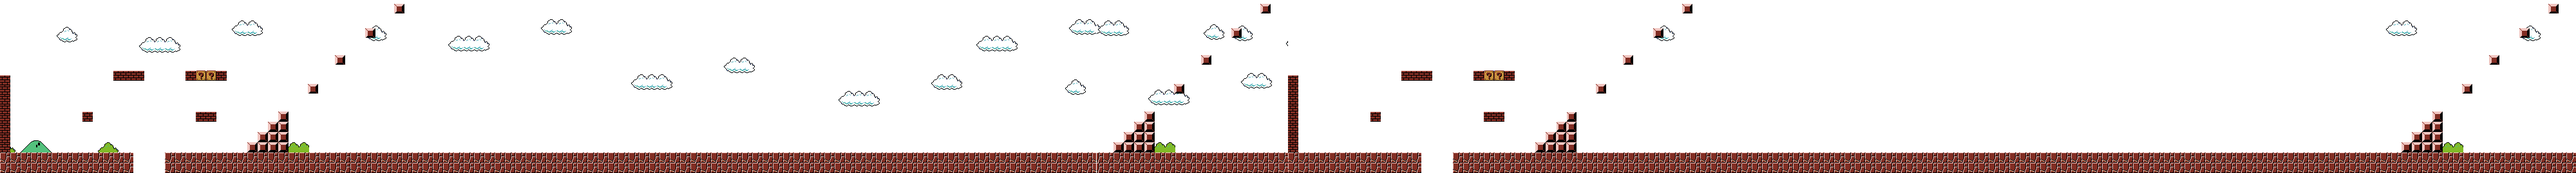
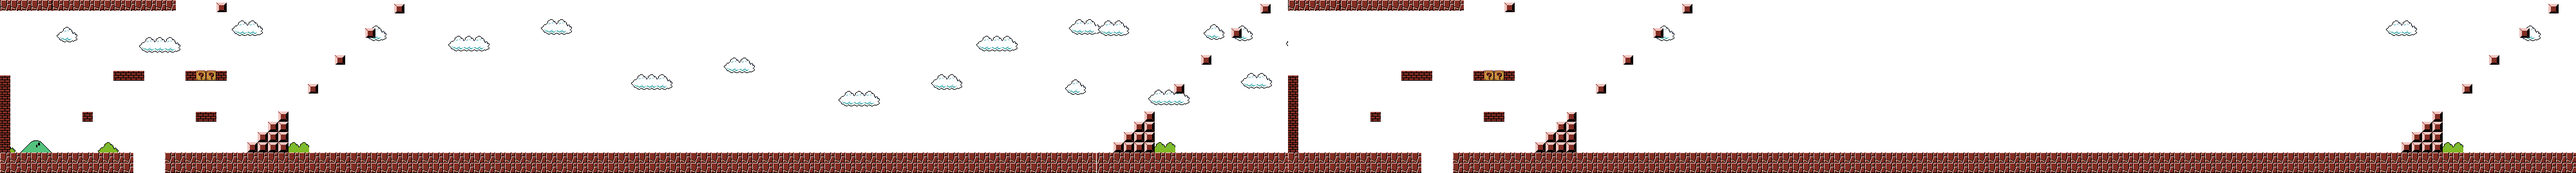
Add viewport scaling for a faux 3d camera feel

Changed region(s): [[0.5, 0.0, 0.5938, 0.0889], [0.0, 0.0, 0.0938, 0.0889]]

diff --git a/engine/src/renderer/renderer.cpp b/engine/src/renderer/renderer.cpp
@@ -8,6 +8,9 @@
 #include <raptr/renderer/parallax.hpp>
 #include <raptr/common/clock.hpp>
 
+constexpr int32_t GAME_WIDTH = 480;
+constexpr int32_t GAME_HEIGHT = 270;
+
 void SDLDeleter::operator()(SDL_Texture* p) const
 {
   SDL_DestroyTexture(p);
@@ -37,6 +40,38 @@ Renderer::~Renderer()
   }
 }
 
+void Renderer::scale(float ratio)
+{
+  int32_t w = GAME_WIDTH * ratio;
+  int32_t h = GAME_HEIGHT * ratio;
+  desired_ratio = ratio;
+  desired_size.w = w;
+  desired_size.h = h;
+  ratio_per_second = (desired_ratio - current_ratio) / 1.0;
+}
+
+void Renderer::scale_to_height(int32_t height)
+{
+  float ratio = float(height) / GAME_HEIGHT;
+  int32_t w = GAME_WIDTH * ratio;
+  int32_t h = GAME_HEIGHT * ratio;
+  desired_ratio = ratio;
+  desired_size.w = w;
+  desired_size.h = h;
+  ratio_per_second = (desired_ratio - current_ratio) / 1.0;
+}
+
+void Renderer::scale_to_width(int32_t width)
+{
+  float ratio = float(width) / GAME_WIDTH;
+  int32_t w = GAME_WIDTH * ratio;
+  int32_t h = GAME_HEIGHT * ratio;
+  desired_ratio = ratio;
+  desired_size.w = w;
+  desired_size.h = h;
+  ratio_per_second = (desired_ratio - current_ratio) / 1.0;
+}
+
 bool Renderer::init(std::shared_ptr<Config>& config_)
 {
   config = config_;
@@ -54,8 +89,13 @@ bool Renderer::init(std::shared_ptr<Config>& config_)
   sdl.renderer = SDL_CreateRenderer(sdl.window, -1, SDL_RENDERER_ACCELERATED);
   camera.pos.x = 0;
   camera.pos.y = 0;
-  SDL_RenderSetLogicalSize(sdl.renderer, GAME_WIDTH, GAME_HEIGHT);
-  SDL_SetRenderDrawColor(sdl.renderer, 255, 255, 255, 255);
+  logical_size.w = GAME_WIDTH;
+  logical_size.h = GAME_HEIGHT;
+  desired_size = logical_size;
+  current_ratio = 1.0;
+  desired_ratio = 1.0;
+  SDL_RenderSetLogicalSize(sdl.renderer, logical_size.w, logical_size.h);
+  SDL_SetRenderDrawColor(sdl.renderer, 0, 0, 0, 255);
   SDL_SetRenderDrawBlendMode(sdl.renderer, SDL_BLENDMODE_BLEND);
   return true;
 }
@@ -71,6 +111,23 @@ void Renderer::run_frame(bool force_render)
     return;
   }
 
+  if (std::fabs(current_ratio - desired_ratio) > 1e-5) {
+    float delta_ratio_ms = ratio_per_second / 1000.0 * ms;
+    current_ratio += delta_ratio_ms;
+    if ((delta_ratio_ms > 0 && current_ratio > desired_ratio) ||
+        (delta_ratio_ms < 0 && current_ratio < desired_ratio))
+    {
+      current_ratio = desired_ratio;
+      logical_size = desired_size;
+    } else {
+      int32_t w = GAME_WIDTH * current_ratio;
+      int32_t h = GAME_HEIGHT * current_ratio;
+      logical_size.w = w;
+      logical_size.h = h;
+    }
+    SDL_RenderSetLogicalSize(sdl.renderer, logical_size.w, logical_size.h);
+  }
+
   SDL_RenderClear(sdl.renderer);
   size_t num_entities = entities_followed.size();
   size_t index = 0;
@@ -78,10 +135,11 @@ void Renderer::run_frame(bool force_render)
   struct ClipCamera {
     SDL_Rect clip, viewport;
     int32_t left_offset;
+    std::vector<std::shared_ptr<Entity>> contains;
   };
 
   // Determine the cameras
-  std::vector<ClipCamera> clippings;
+  std::vector<ClipCamera> hclippings;
 
   // Sort the entities being followed left to right to figure
   // out how we're going to clip them
@@ -94,11 +152,12 @@ void Renderer::run_frame(bool force_render)
               return p1.x < p2.x;
             });
 
-  int32_t min_rect_w;
+  int32_t min_rect_w, min_rect_h;
   if (num_entities == 0) {
-    min_rect_w = GAME_WIDTH;
+    min_rect_w = logical_size.w;
+    min_rect_h = logical_size.h;
   } else {
-    min_rect_w = static_cast<int32_t>((GAME_WIDTH / num_entities));
+    min_rect_w = static_cast<int32_t>((logical_size.w / num_entities));
   }
 
   int32_t min_rect_hw = min_rect_w / 2;
@@ -124,6 +183,7 @@ void Renderer::run_frame(bool force_render)
       y_pos.push_back(static_cast<int32_t>(pos.y + bbox.h));
       top = 0;
       bottom = GAME_HEIGHT;
+      clip_cam.contains.push_back(entity);
     }
 
     int32_t t_right = right;
@@ -134,6 +194,7 @@ void Renderer::run_frame(bool force_render)
       int32_t x = static_cast<int32_t>(pos.x + bbox.w / 2.0);
       t_right += min_rect_hw;
       if (x <= t_right) {
+        clip_cam.contains.push_back(entity);
         y_pos.push_back(static_cast<int32_t>(pos.y + bbox.h));
         right += min_rect_w;
         t_right = right;
@@ -144,9 +205,9 @@ void Renderer::run_frame(bool force_render)
 
     int32_t min_player = *std::max_element(y_pos.begin(), y_pos.end());
     clip_cam.clip.x = left;
-    clip_cam.clip.y = 0;//(y_pos[0] + 32) - GAME_HEIGHT; // GAME_HEIGHT - std::accumulate(y_pos.begin(), y_pos.end(), 0) / y_pos.size();
+    clip_cam.clip.y = GAME_HEIGHT - logical_size.h;//(y_pos[0] + 32) - GAME_HEIGHT; // GAME_HEIGHT - std::accumulate(y_pos.begin(), y_pos.end(), 0) / y_pos.size();
     clip_cam.clip.w = (right - left);
-    clip_cam.clip.h = GAME_HEIGHT;
+    clip_cam.clip.h = logical_size.h;
     clip_cam.left_offset = last_center_offset;
 
     clip_cam.viewport.x = last_left;
@@ -157,17 +218,86 @@ void Renderer::run_frame(bool force_render)
     last_left += clip_cam.clip.w;
     last_center_offset += clip_cam.viewport.w;
 
-    clippings.push_back(clip_cam);
+    hclippings.push_back(clip_cam);
     ++num_clips;
   }
+
+
+
+  std::vector<ClipCamera> clippings = hclippings;
+
+  /*
+  // So, the idea here is to iterate through our current horizontal cuts and find what entities are in it and then
+  // split the horizontal window in a similar way
+  for (auto& hclip_cam : hclippings) {
+    int32_t top, bottom;
+
+    // Now, create vertical clips
+    std::sort(hclip_cam.contains.begin(),
+      hclip_cam.contains.end(),
+      [](const auto& lhs, const auto& rhs)
+    {
+      auto& p1 = lhs->position();
+      auto& p2 = rhs->position();
+      return p1.y > p2.y;
+    });
+
+    int32_t last_top = GAME_HEIGHT;
+    ClipCamera clip_cam = hclip_cam;
+    clip_cam.contains.clear();
+    current_entity_index = 0;
+    min_rect_h = static_cast<int32_t>((GAME_HEIGHT / hclip_cam.contains.size()));
+    int32_t min_rect_hh = min_rect_h / 2;
+
+    while (current_entity_index < hclip_cam.contains.size()) {
+      // Setup the initial camera where we are going to try and merge players together
+      {
+        const auto& entity = hclip_cam.contains[current_entity_index];
+        auto& pos = entity->position();
+        auto bbox = entity->bbox()[0];
+        int32_t y = pos.y + bbox.h / 2.0;
+        top = y - min_rect_hh;
+        bottom = y + min_rect_hh;
+        clip_cam.contains.push_back(entity);
+      }
+
+      int32_t t_top = top;
+      while (++current_entity_index < hclip_cam.contains.size()) {
+        const auto& entity = hclip_cam.contains[current_entity_index];
+        auto& pos = entity->position();
+        auto bbox = entity->bbox()[0];
+        int32_t y = static_cast<int32_t>(pos.y + bbox.h / 2.0);
+        t_top -= min_rect_hh;
+        if (y >= t_top) {
+          clip_cam.contains.push_back(entity);
+          top -= min_rect_h;
+          t_top = top;
+        } else {
+          break;
+        }
+      }
+
+      clip_cam.clip.y = top;
+      clip_cam.clip.h = (bottom - top);
+
+      clip_cam.viewport.y = last_top - clip_cam.clip.h;
+      clip_cam.viewport.h = clip_cam.clip.h - 1;
+
+      last_top -= clip_cam.clip.h;
+
+      clippings.push_back(clip_cam);
+      ++num_clips;
+    }
+  }
+  */
 
   if (clippings.empty()) {
     ClipCamera clip_cam;
     clip_cam.clip.x = 0;
     clip_cam.left_offset = 0;
     clip_cam.clip.y = 0; 
-    clip_cam.clip.w = GAME_WIDTH;
-    clip_cam.clip.h = GAME_HEIGHT;
+    clip_cam.clip.w = logical_size.w;
+    clip_cam.clip.h = logical_size.h;
 
     clip_cam.viewport.x = 0;
     clip_cam.viewport.y = 0;

diff --git a/engine/src/game/game.cpp b/engine/src/game/game.cpp
@@ -84,6 +84,10 @@ bool Game::poll_events()
       character->pos_.x = x;
       renderer->camera_follow(character);
     });
+  } else if (e.type == SDL_KEYUP && e.key.keysym.scancode == SDL_SCANCODE_F3) {
+    renderer->scale(renderer->current_ratio + 1.0);
+  } else if (e.type == SDL_KEYUP && e.key.keysym.scancode == SDL_SCANCODE_F4) {
+    renderer->scale(renderer->current_ratio / 2.0);
   }
   return true;
 }
@@ -422,12 +426,14 @@ bool Game::init_demo()
   this->spawn_staticmesh("staticmeshes/demo.toml");
 
   int x = 0;
+  int y = -200;
   for (auto controller : controllers) {
     int32_t controller_id = controller.first;
-    this->spawn_character("raptr", [&, x, controller_id](auto& character)
+    this->spawn_character("raptr", [&, x, y, controller_id](auto& character)
     {
       auto& pos = character->position();
       pos.x = x;
+      pos.y = y;
       character->flashlight = true;
       character->attach_controller(controllers[controller_id]);
       renderer->camera_follow(character);

diff --git a/engine/src/renderer/parallax.cpp b/engine/src/renderer/parallax.cpp
@@ -102,10 +102,10 @@ void Parallax::render(Renderer* renderer, const SDL_Rect& clip, int32_t rx)
     if (is_foreground) {
       // Things that are closer move faster 
       transformed_dst.x -= static_cast<int32_t>(cx * (1.0 + layer.z_index / 100.0));
-      transformed_dst.y = static_cast<int32_t>(-layer.surface->h + GAME_HEIGHT - (clip.y * (1.0 - layer.z_index / 100.0)));
+      transformed_dst.y = static_cast<int32_t>(-layer.surface->h + renderer->logical_size.h - (clip.y * (1.0 - layer.z_index / 100.0)));
     } else {
       transformed_dst.x -= static_cast<int32_t>(cx * (1.0 - (layer.z_index / 100.0))) + rx;
-      transformed_dst.y = static_cast<int32_t>(-layer.surface->h + GAME_HEIGHT - (clip.y * (layer.z_index / 100.0)));
+      transformed_dst.y = static_cast<int32_t>(renderer->logical_size.h - layer.surface->h + (clip.y * (layer.z_index / 100.0)));
     }
 
     SDL_RenderCopyEx(renderer->sdl.renderer, layer.texture.get(), &layer.bbox, &transformed_dst, 0, nullptr, SDL_FLIP_NONE);

diff --git a/engine/include/raptr/renderer/renderer.hpp b/engine/include/raptr/renderer/renderer.hpp
@@ -26,8 +26,6 @@ struct SDLDeleter {
 
 namespace raptr {
 
-constexpr int32_t GAME_WIDTH = 480;
-constexpr int32_t GAME_HEIGHT = 270;
 
 class Config;
 class Entity;
@@ -156,6 +154,14 @@ class Renderer {
   */
   void run_frame(bool force_render = false);
 
+  void scale(float ratio);
+
+  void scale_to_height(int32_t height);
+  void scale_to_height(float ratio);
+
+  void scale_to_width(int32_t width);
+  void scale_to_width(float ratio);
+
   /*!
     Toggles between a BORDERLESS fullscreen and Window mode
     /return Whether the window is in fullscreen or not
@@ -183,6 +189,12 @@ class Renderer {
     SDL_Window* window;
     SDL_Renderer* renderer;
   } sdl;
+
+  SDL_Rect logical_size;
+  SDL_Rect desired_size;
+  float current_ratio;
+  float desired_ratio;
+  float ratio_per_second;
 
   //! A list of Renderable objects that will be rendered on the next run_frame()
   std::vector<std::shared_ptr<Entity>> observing;
